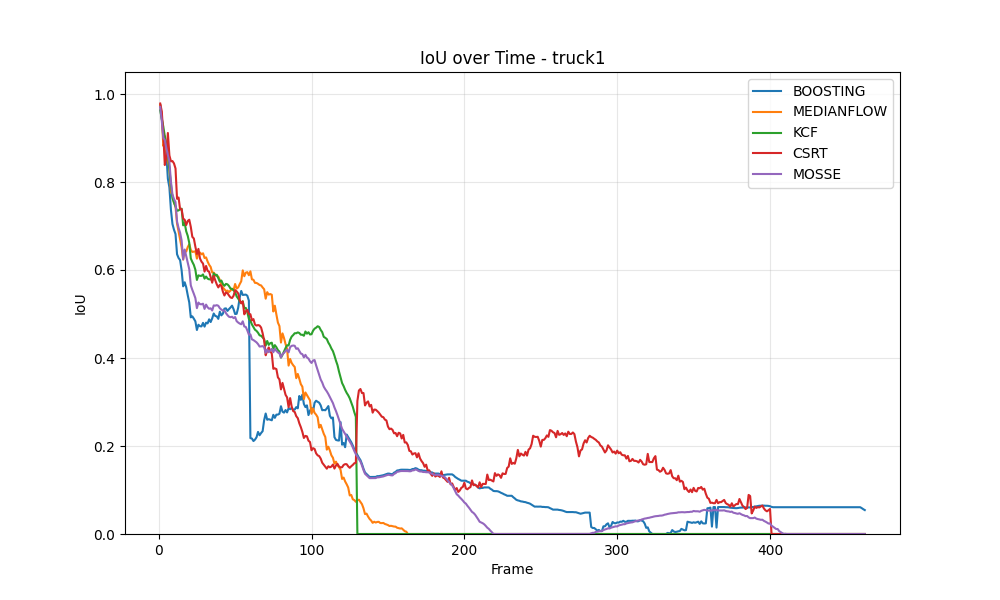
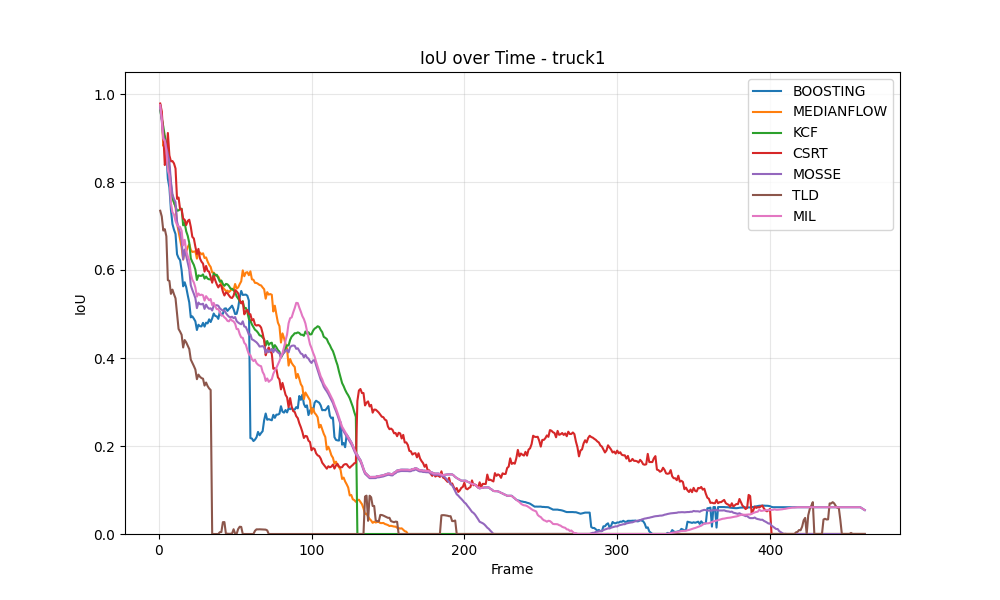
more trackers added and tested

diff --git a/src/tracking/benchmark.py b/src/tracking/benchmark.py
@@ -179,10 +179,10 @@ if __name__ == "__main__":
     os.makedirs(OUTPUT_DIR, exist_ok=True)
     
     # Define which trackers and sequences to run
-    trackers_to_test = ["BOOSTING", "MEDIANFLOW", "KCF", "CSRT", "MOSSE"] 
+    trackers_to_test = ["BOOSTING", "MEDIANFLOW", "KCF", "CSRT", "MOSSE", "TLD", "MIL"] 
     # trackers_to_test = ["BOOSTING", "MEDIANFLOW", "MIL", "TLD"]
     
-    sequences_to_test = ["car3", "person2", "truck2", "truck3", "wakeboard1", "wakeboard2", "wakeboard3"] # Add more here, e.g. ["car1", "person1"]
+    sequences_to_test = ["boat1", "car1", "car2", "car3", "car6", "car8", "person2", "person3", "truck1", "truck2", "truck3", "wakeboard1", "wakeboard2", "wakeboard3"] # Add more here, e.g. ["car1", "person1"]
     
     all_frame_results = []
     summary_results = []
